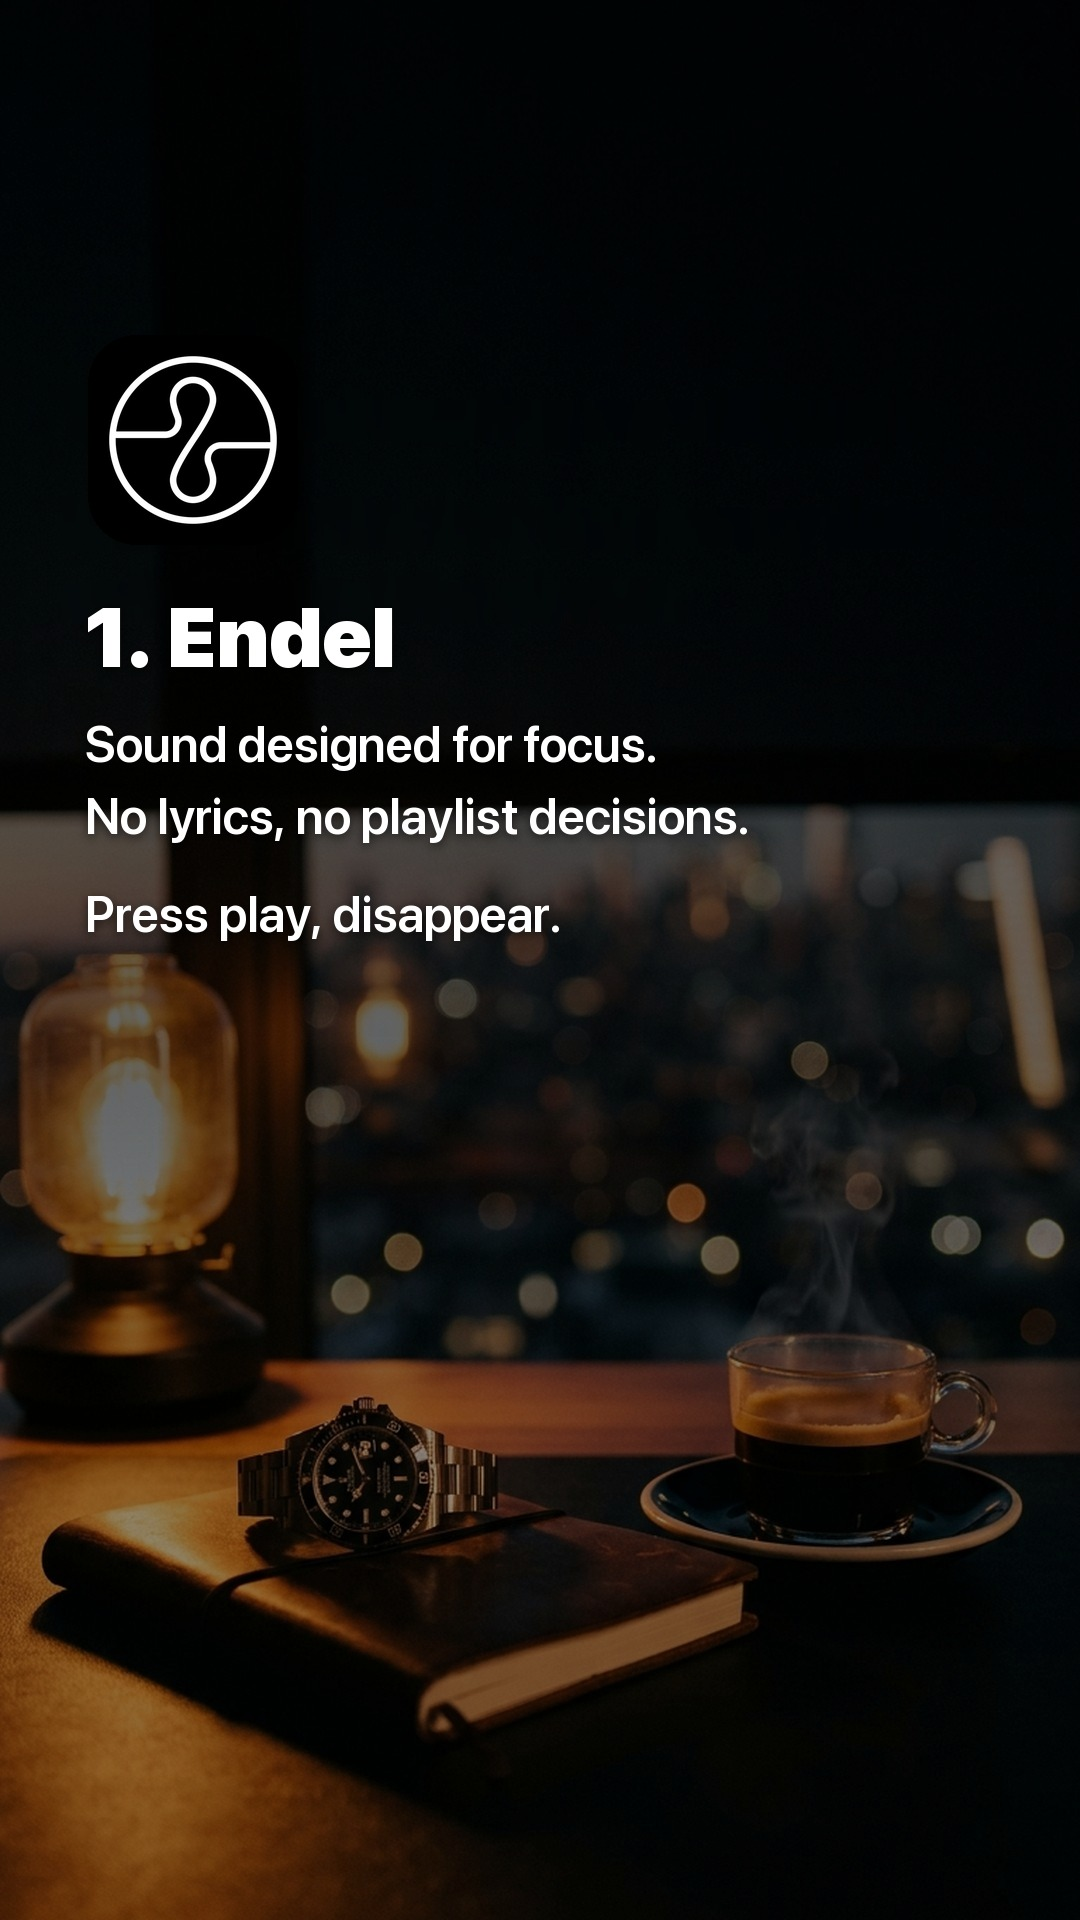
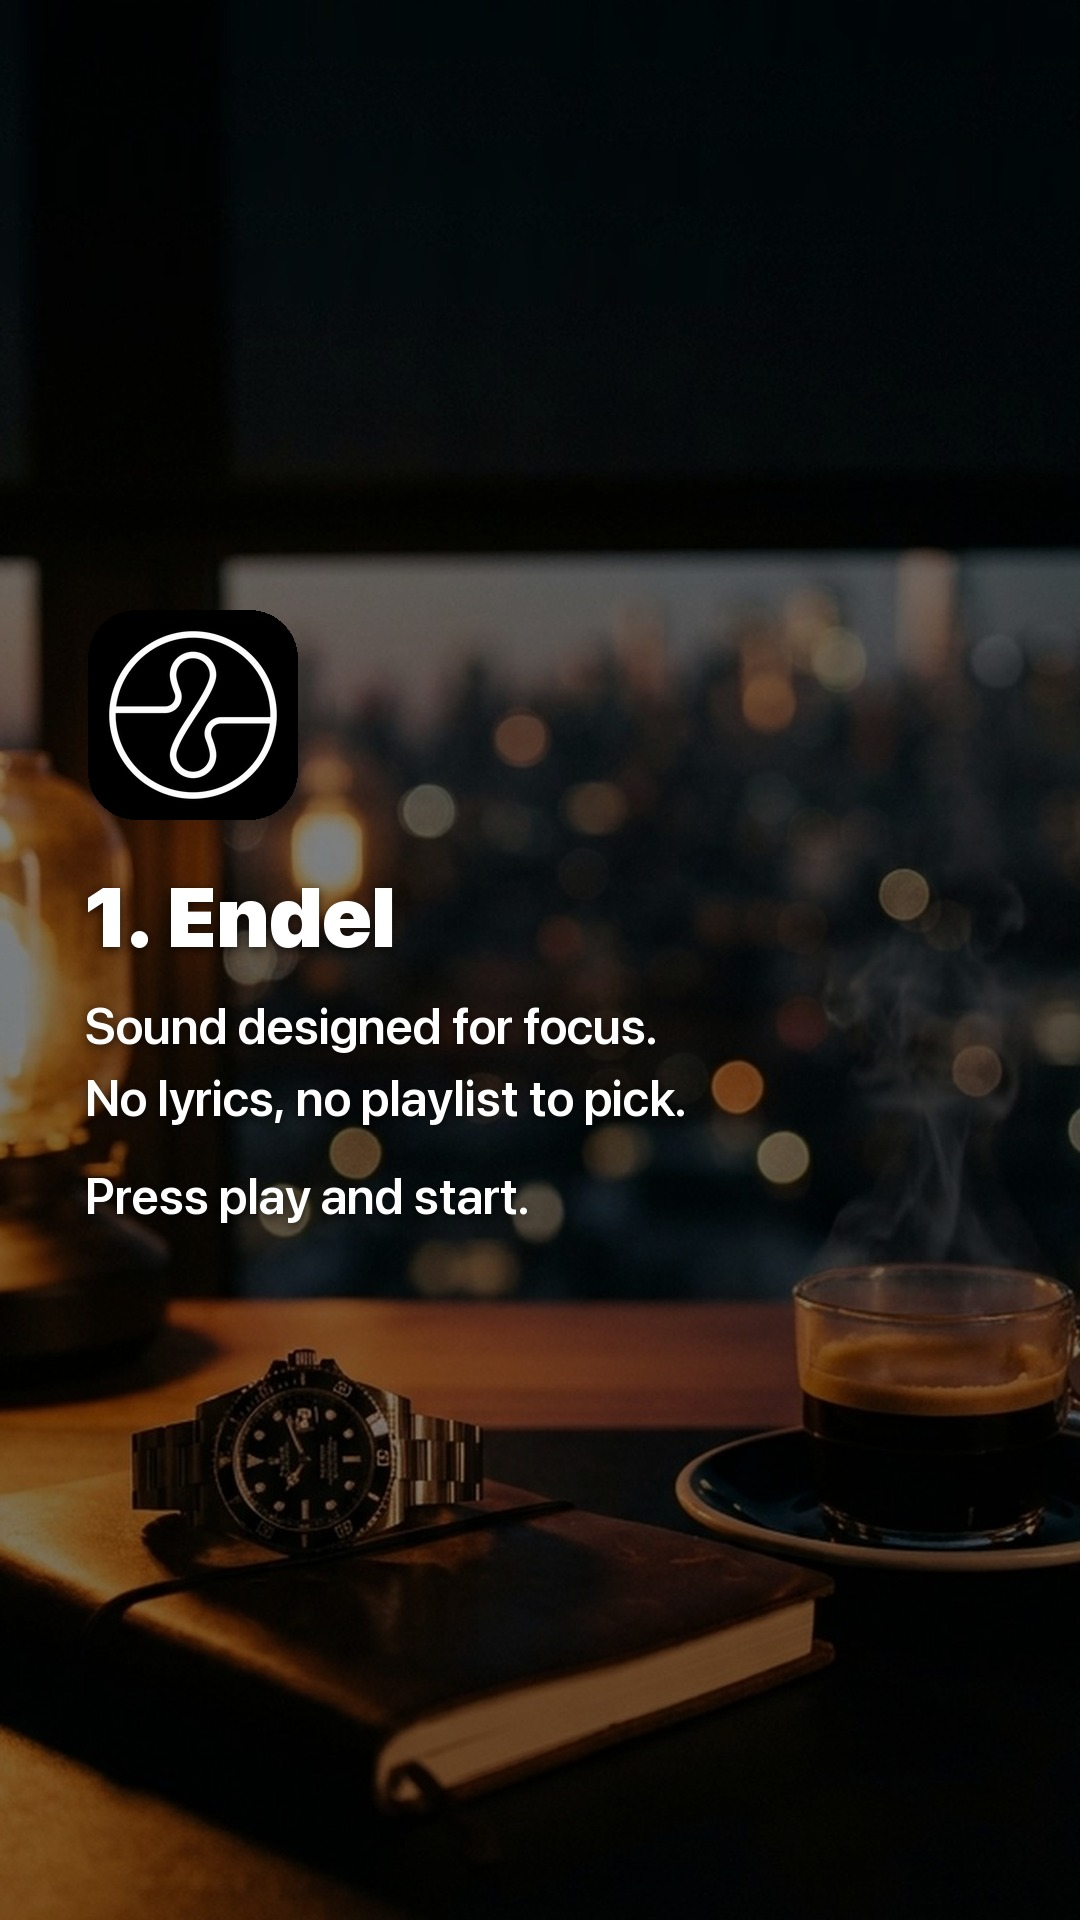
slides: uppercase hooks, adaptive darkening, pan away from dead space
A fixed scrim crushed already-dark photos to flat black, and the emptiness
was above the copy band so a band-only check never caught it. Darkening is
now measured per photo, the zone above the text is checked for content, and
photos holding everything in the lower third get panned into frame. Hooks
are uppercase so the first slide reads as a headline.

Claude-Session: https://claude.ai/code/session_018WcmYQJRQqBfrRpJzu76Jc

diff --git a/tools/compose.py b/tools/compose.py
@@ -123,12 +123,16 @@ def base_photo(name, grad):
     gradient_darken(im, *grad)
     return im
 
-def hook_slide(bg, lines, out, grad=(0.62, 0.62, 300, 1300)):
+def hook_slide(bg, lines, out, grad=(0.85, 0.72, 300, 1300)):
+    """Hook text is UPPERCASE: the first slide has to stop a thumb, and
+    lowercase at this size reads as a caption rather than a headline."""
     im = base_photo(bg, grad)
-    text_scrim(im, 700, 990, strength=0.55)
-    hf = font(74, 'Bold')
+    im = frame_for_band(im, 690, 1000)
+    adaptive_scrim(im, 690, 1000)
+    lines = [l.upper() for l in lines]
+    hf = fit_font(max(lines, key=len), 'Black', 80, max_width=900)
     items = [(540, 790, lines[0], hf, 'mm', (255, 255, 255)),
-             (540, 895, lines[1], hf, 'mm', (255, 255, 255))]
+             (540, 900, lines[1], hf, 'mm', (255, 255, 255))]
     draw_text_block(im, items)
     im.save(out, quality=92)
     print('wrote', out)
@@ -136,6 +140,66 @@ def hook_slide(bg, lines, out, grad=(0.62, 0.62, 300, 1300)):
 # TikTok overlays its own UI on a photo post: search bar across the top ~12%,
 # caption and username across the bottom ~28%, action buttons down the right
 # ~15%. Copy therefore lives in the middle band, left of x=945.
+def band_interest(im, y0, y1):
+    """Std-dev of the copy band: how much is actually visible there."""
+    g = im.convert('L').crop((0, y0, im.width, y1))
+    px = list(g.getdata())
+    m = sum(px) / len(px)
+    return (sum((v - m) ** 2 for v in px) / len(px)) ** 0.5
+
+
+# Above the copy band there is a large visible zone. Some photos put all
+# their content in the lower third, leaving that zone flat black — the slide
+# then looks like text floating on nothing, which is what "bad dark bg" means
+# in practice. Detect a dead top zone and pan the photo down into frame.
+TOP_ZONE = (200, 690)
+MIN_TOP_INTEREST = 12
+
+
+def frame_for_band(im, y0, y1, zoom=1.35):
+    top_now = band_interest(im, *TOP_ZONE)
+    if top_now >= MIN_TOP_INTEREST:
+        return im
+    w, h = im.size
+    big = im.resize((int(w * zoom), int(h * zoom)), Image.LANCZOS)
+    x0 = int((big.width - w) / 2)
+    span = big.height - h
+
+    def score(c):
+        # both zones must carry something; the weaker one decides
+        return min(band_interest(c, *TOP_ZONE), band_interest(c, y0, y1))
+
+    best, best_score = im, score(im)
+    for frac in (0.35, 0.5, 0.65, 0.8, 0.92, 1.0):
+        off = min(span, int(span * frac))
+        cand = big.crop((x0, off, x0 + w, off + h))
+        sc = score(cand)
+        if sc > best_score:
+            best, best_score = cand, sc
+    return best
+
+
+def band_luma(im, y0, y1):
+    g = im.convert('L').crop((0, y0, im.width, y1))
+    px = list(g.getdata())
+    return sum(px) / len(px)
+
+
+def adaptive_scrim(im, y0, y1, target=96, feather=140):
+    """Darken the copy band only as much as this photo needs.
+
+    A fixed scrim ruins already-dark photos: the band goes to pure black and
+    the slide reads as text on nothing. Measure first, then apply only the
+    deficit, and skip entirely when the photo is dark enough on its own.
+    """
+    luma = band_luma(im, y0, y1)
+    if luma <= target:
+        return 0.0
+    strength = min(0.55, 1 - (target / luma))
+    text_scrim(im, y0, y1, strength=strength, feather=feather)
+    return strength
+
+
 def text_scrim(im, y0, y1, strength=0.62, feather=120):
     """Local darkening behind the copy band only, so text always reads while
     the rest of the photo stays visible."""
@@ -150,9 +214,10 @@ def text_scrim(im, y0, y1, strength=0.62, feather=120):
             bp[0, y] = int(255 * strength * (1 - (y - y1) / feather))
     im.paste(Image.new('RGB', im.size, (0, 0, 0)), (0, 0), band.resize(im.size))
 
-def app_slide(bg, icon, title, body_lines, out, grad=(0.72, 0.55, 300, 1250)):
+def app_slide(bg, icon, title, body_lines, out, grad=(0.85, 0.68, 300, 1250)):
     im = base_photo(bg, grad)
-    text_scrim(im, 600, 1300)
+    im = frame_for_band(im, 600, 1300)
+    adaptive_scrim(im, 600, 1300)
     ic, mask = rounded_icon(f'{ICONS}/{icon}')
     im.paste(ic, (88, 610), mask)
     tf = fit_font(title, 'Black', 84)
